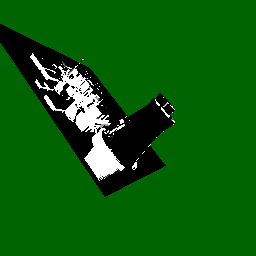
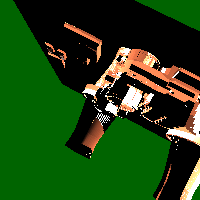
change color of material and set diffuse and ambient light color to white

diff --git a/rtx.py b/rtx.py
@@ -116,7 +116,7 @@ class QMeshViewer(QtWidgets.QFrame):
 
         pp_actor = vtkActor()
         pp_actor.SetMapper(pp_mapper)
-        pp_actor.GetProperty().SetColor(colors.GetColor3d('AliceBlue'))
+        pp_actor.GetProperty().SetColor(colors.GetColor3d('Coral'))
 
         self.renderer.AddActor(pp_actor)
         self.powerplant_actor = pp_actor
@@ -129,10 +129,14 @@ class QMeshViewer(QtWidgets.QFrame):
         self.pos_Light = [light_x, light_y, light_z]
         self.light.SetPosition(self.pos_Light)
         self.light.SetDiffuseColor(1, 1, 1)
+        self.light.SetAmbientColor(1.,1.,1.)
+        self.light.SetSpecularColor(1.,1.,1.)
         self.light.SetFocalPoint(0.,0.,0.)
         # self.light.SetConeAngle(90)
         self.light.SetPositional(True)
         self.renderer.AddLight(self.light)
+        
+        
         
         #if the camera focal point is on 0,0,0 or on the target :
         self.followTarget = False 
@@ -363,7 +367,7 @@ class QMeshViewer(QtWidgets.QFrame):
         self.renderer.AddActor(plane_actor)
         self.screen_plane = (plane_actor, plane_source)
 
-        print(f"Sun resolution : {sun_resolution}\nNumber of rays from the sun : {len(self.lines_hit)}")
+        print(f"Sun resolution : {sun_resolution}\nNumber of rays (live rendering) from the sun : {len(self.lines_hit)}")
         self.render_window.Render()
         self.intersect_list = []
         self.pic_width = 4
@@ -655,6 +659,8 @@ class QMeshViewer(QtWidgets.QFrame):
             print("Light from sun. Click again to change")
 
         self.render_window.Render()
+
+
 #endregion
 
 #region Camera
@@ -802,7 +808,7 @@ class QMeshViewer(QtWidgets.QFrame):
                                                              cam_pos,
                                                              pointRayTarget)
                     # TODO : Garder le plus proche des points d'intersect
-                    # ANSWER TODO : C'est le pointsInter[0] justement
+                    # ANSWER TODO : C'est le pointsInter[0]; pointsInter étant la liste de tous les points d'intersections, le [0] c'est le premier
 
                     normalModel = self.normalsModel.GetTuple(cellIdsInter[0])
 
@@ -868,13 +874,16 @@ class QMeshViewer(QtWidgets.QFrame):
 
                 # Calculate the reflected ray vector
 
-                ambientMat = l2n(self.powerplant_actor.GetProperty().GetAmbientColor())
+                # ambientMat = l2n(self.powerplant_actor.GetProperty().GetAmbientColor())
+                ambientMat = l2n(self.powerplant_actor.GetProperty().GetColor())
                 specularMat = l2n(self.powerplant_actor.GetProperty().GetSpecularColor())
                 diffuseMat = l2n(self.powerplant_actor.GetProperty().GetDiffuseColor())
 
-                ambientLight = l2n(self.light.GetAmbientColor())
-                specularLight = l2n(self.light.GetSpecularColor())
-                diffuseLight = l2n(self.light.GetDiffuseColor())
+
+                intensity = self.light.GetIntensity()
+                ambientLight = l2n(self.light.GetAmbientColor()) * intensity
+                specularLight = l2n(self.light.GetSpecularColor()) * intensity
+                diffuseLight = l2n(self.light.GetDiffuseColor()) * intensity
 
                 # Initialize color
                 # ambiant
